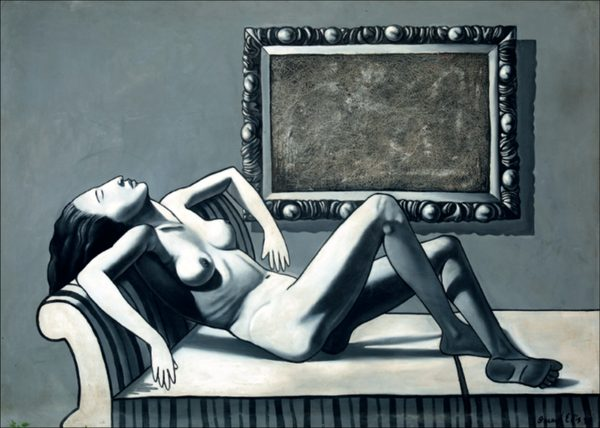
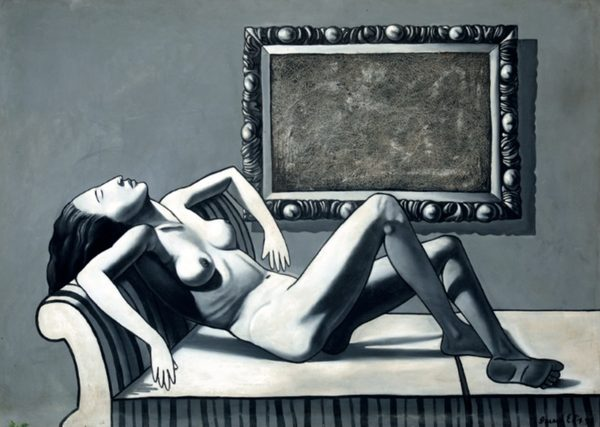
Auction: Gerald Ellis's critique from the book; his painting recropped
Claude-Session: https://claude.ai/code/session_01JFgdJiiK19J4ZJBah5TEjT

diff --git a/museo-abreu/auction-config.js b/museo-abreu/auction-config.js
@@ -294,7 +294,7 @@ var AUCTION = {
       spec: { es: 'Técnica mixta sobre lienzo · 40 × 30 pulg. (101,6 × 76,2 cm)', en: 'Mixed media on canvas · 40 × 30 in (101.6 × 76.2 cm)', fr: 'Technique mixte sur toile · 40 × 30 po (101,6 × 76,2 cm)' },
       startBid: 1000 },
     // By Gerald Ellis (Dominican, b. 1976), from the same book.
-    { id: 'mujer-descansando-ii', kind: 'painting', artist: 'Gerald Ellis', year: 2021, img: 'img/ellis-mujer.jpg', thumb: 'img/ellis-mujer-600.jpg', w: 814, h: 580,
+    { id: 'mujer-descansando-ii', kind: 'painting', artist: 'Gerald Ellis', year: 2021, img: 'img/ellis-mujer.jpg', thumb: 'img/ellis-mujer-600.jpg', w: 811, h: 577,
       title: { es: 'Mujer descansando II', en: 'Mujer descansando II (Woman Resting II)', fr: 'Mujer descansando II' },
       spec: { es: 'Óleo sobre tela · 35 × 48 pulg.', en: 'Oil on canvas · 35 × 48 in', fr: 'Huile sur toile · 35 × 48 po' },
       startBid: 1000 },
@@ -594,7 +594,23 @@ The frontal quality of the heads also establishes a direct relationship with the
 Within the context of contemporary Dominican art, María Dolores’s work represents a coherent and sustained investigation into the expressive possibilities of formal synthesis. Her work demonstrates that abstraction and figuration are not opposing territories, but complementary dimensions capable of coexisting within the same visual structure. In her hands, the human face becomes a territory of both aesthetic and emotional exploration.
 
 For this reason, María Dolores’s inclusion in ART GABANGI 2026: Top 100 Artists recognizes an artist who has developed a solid, identifiable, and profoundly contemporary visual language. Her series of heads confirms an artistic vision in which geometry, color, and sensitivity converge to construct images charged with balance, rhythm, and humanity.` },
-  'Gerald Ellis': { head: 'The image as a territory of memory and presence' },
+  'Gerald Ellis': { head: 'The image as a territory of memory and presence', text: `Gerald Ellis does not approach the image as simple representation, but as a territory where memory, identity, and human presence are reorganized through a deeply visual sensibility. His work begins with the figure, yet does not remain confined to it; rather, it uses it as an entry point to construct an atmosphere in which the human becomes symbol, tension, and permanence.
+
+In his language, the figure does not appear as an isolated body, but as a presence charged with history. Each face, gesture, and posture seems to contain an inner dimension that exceeds the visible, as if the work were not concerned with describing the subject, but with revealing what sustains it emotionally.
+
+One of the most significant aspects of his practice is the way he articulates color, gesture, and composition to construct images of strong expressive intensity. Color does not function as ornament, but as psychological force; it organizes the gaze, generates emotional temperature, and transforms the surface into an active field where the figure breathes, asserts itself, and endures.
+
+His work operates between figuration and a degree of expressive freedom that avoids falling into literal description. There is no cold pursuit of likeness, nor absolute adherence to realism; what emerges instead is a will to capture presence an energy, a human condition. In this sense, Ellis understands that the image does not need to replicate reality in order to convey a deeper truth.
+
+A more critical reading: his greatest strength the ability to charge the figure with emotional intensity also demands vigilance. When expressive gesture becomes too recognizable, the work risks stabilizing into a formula. The challenge lies in pushing the figure toward greater zones of tension, where color, composition, and material do not simply accompany the subject, but place it into crisis.
+
+When that tension appears, something essential occurs:
+
+painting ceases to be image and becomes experience.
+
+Gerald Ellis does not paint figures to be quickly consumed; he constructs presences that compel the viewer to pause, to look again, and to recognize that behind each image lies a human charge that cannot be exhausted at the surface.
+
+For this reason, more than a painter of bodies or faces, Gerald Ellis can be understood as a builder of presences. His work affirms that painting remains a valid space for thinking the human not through appearance, but through the emotional memory that each image is capable of sustaining.` },
 };
 
 // Short biographies researched from published sources (each lists them), approved by the museum. `src` are shown as links.

diff --git a/museo-abreu/sw.js b/museo-abreu/sw.js
@@ -1,5 +1,5 @@
 // Offline shell: the app opens without a connection (e.g. to show a ticket QR).
-const CACHE = 'museo-abreu-v162';
+const CACHE = 'museo-abreu-v163';
 const SHELL = ['./', 'index.html', 'styles.css', 'i18n.js', 'sample-en.js', 'sample-es.js', 'sample-fr.js', 'sample-de.js', 'sample-ru.js', 'sample-it.js', 'sample-pt.js', 'sample-ja.js', 'data.js', 'manifestos.js', 'manifestos-text.js', 'booking-config.js', 'features.js', 'gabangi.js', 'content.js', 'rsvp.js', 'checkout.js', 'auction-config.js', 'market.js', 'events-page.js', 'admin.js', 'story.js', 'aftercare.js', 'insights.js', 'remind.js', 'wishlist.js', 'alerts.js', 'newsletter.js', 'scanner.js', 'kit.js', 'contact.js', 'legal.js', 'fullbook.js', 'bookplus.js', 'sample-fund.js', 'fundamentos-parse.js', 'fundamentos.js', 'listen.js', 'audiobook.js', 'director.js', 'app.js', 'agent-widget.js', 'icon.svg', 'manifest.webmanifest',
   'qrcode.js', 'img/escaping-being.jpg', 'img/passion.jpg', 'img/petrichor.jpg', 'img/resilience.jpg', 'img/limerence.jpg', 'img/echoes-of-memory.jpg',
   'img/time-on-my-face.jpg',
